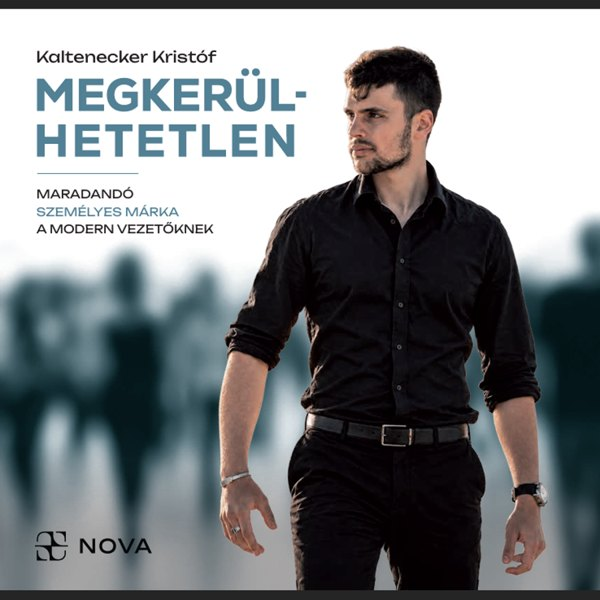
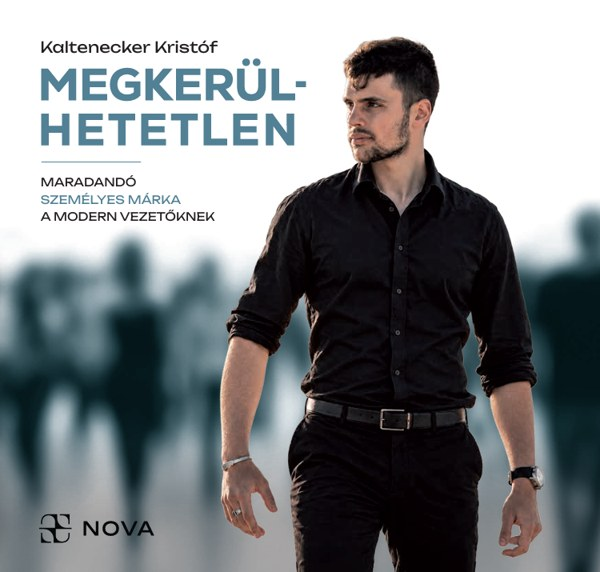
Borító: fekete csíkok levágva, mockup az eredeti arányban

diff --git a/docs/assets/css/style.css b/docs/assets/css/style.css
@@ -163,9 +163,9 @@ footer a{color:var(--muted)}
 .form-slot #kajabi-form .kajabi-form__form-item label{font-size:13px;color:#3b434a}
 
 /* 3D könyv-mockup (CSS, négyzetes keményfedeles) */
-.book3d{--bw:240px;--bt:28px;perspective:1300px;width:calc(var(--bw) + 40px);margin:10px auto 0;padding:14px 0 26px 40px;position:relative}
+.book3d{--bw:240px;--bh:calc(var(--bw) * 0.953);--bt:28px;perspective:1300px;width:calc(var(--bw) + 40px);margin:10px auto 0;padding:14px 0 26px 40px;position:relative}
 .book3d::after{content:"";position:absolute;left:28px;right:-6px;bottom:4px;height:22px;border-radius:50%;background:rgba(20,24,28,.32);filter:blur(10px);z-index:0}
-.book3d-inner{position:relative;z-index:1;width:var(--bw);height:var(--bw);transform-style:preserve-3d;transform:rotateY(26deg) rotateX(4deg);transition:transform .5s ease}
+.book3d-inner{position:relative;z-index:1;width:var(--bw);height:var(--bh);transform-style:preserve-3d;transform:rotateY(26deg) rotateX(4deg);transition:transform .5s ease}
 .book3d:hover .book3d-inner{transform:rotateY(18deg) rotateX(3deg)}
 .b-front,.b-back{position:absolute;inset:0;overflow:hidden;backface-visibility:hidden}
 .b-front{transform:translateZ(calc(var(--bt)/2));border-radius:2px 6px 6px 2px;box-shadow:0 14px 34px rgba(20,24,28,.22)}

diff --git a/docs/gundel-takacs-gabor/index.html b/docs/gundel-takacs-gabor/index.html
@@ -16,7 +16,7 @@
 <link rel="icon" href="../assets/img/favicon.svg" type="image/svg+xml">
 <link rel="preconnect" href="https://fonts.googleapis.com"><link rel="preconnect" href="https://fonts.gstatic.com" crossorigin>
 <link href="https://fonts.googleapis.com/css2?family=Poppins:wght@400;500;600&family=Unbounded:wght@500;600;700;800&display=swap" rel="stylesheet">
-<link rel="stylesheet" href="../assets/css/style.css?v=202610081025">
+<link rel="stylesheet" href="../assets/css/style.css?v=202610081026">
 
 </head>
 <body>
@@ -73,7 +73,7 @@
   <div class="wrap book-grid">
     <div class="book3d" aria-label="Megkerülhetetlen, Kaltenecker Kristóf könyve"><div class="book3d-inner">
       <div class="b-back"></div><div class="b-pages"></div><div class="b-spine"><span>Megkerülhetetlen</span></div>
-      <div class="b-front"><img src="../assets/img/borito-600.jpg" alt="Megkerülhetetlen, Kaltenecker Kristóf könyve" width="240" height="240" loading="lazy"></div>
+      <div class="b-front"><img src="../assets/img/borito-600.jpg" alt="Megkerülhetetlen, Kaltenecker Kristóf könyve" width="240" height="229" loading="lazy"></div>
     </div></div>
     <div>
       <div class="chapter">Storytelling fejezet</div>

diff --git a/docs/karizma/index.html b/docs/karizma/index.html
@@ -16,7 +16,7 @@
 <link rel="icon" href="../assets/img/favicon.svg" type="image/svg+xml">
 <link rel="preconnect" href="https://fonts.googleapis.com"><link rel="preconnect" href="https://fonts.gstatic.com" crossorigin>
 <link href="https://fonts.googleapis.com/css2?family=Poppins:wght@400;500;600&family=Unbounded:wght@500;600;700;800&display=swap" rel="stylesheet">
-<link rel="stylesheet" href="../assets/css/style.css?v=202610081025">
+<link rel="stylesheet" href="../assets/css/style.css?v=202610081026">
 
 </head>
 <body>
@@ -83,7 +83,7 @@
   <div class="wrap book-grid">
     <div class="book3d" aria-label="Megkerülhetetlen, Kaltenecker Kristóf könyve"><div class="book3d-inner">
       <div class="b-back"></div><div class="b-pages"></div><div class="b-spine"><span>Megkerülhetetlen</span></div>
-      <div class="b-front"><img src="../assets/img/borito-600.jpg" alt="Megkerülhetetlen, Kaltenecker Kristóf könyve" width="240" height="240" loading="lazy"></div>
+      <div class="b-front"><img src="../assets/img/borito-600.jpg" alt="Megkerülhetetlen, Kaltenecker Kristóf könyve" width="240" height="229" loading="lazy"></div>
     </div></div>
     <div>
       <div class="chapter">Storytelling fejezet</div>

diff --git a/docs/storycanvas/index.html b/docs/storycanvas/index.html
@@ -16,7 +16,7 @@
 <link rel="icon" href="../assets/img/favicon.svg" type="image/svg+xml">
 <link rel="preconnect" href="https://fonts.googleapis.com"><link rel="preconnect" href="https://fonts.gstatic.com" crossorigin>
 <link href="https://fonts.googleapis.com/css2?family=Poppins:wght@400;500;600&family=Unbounded:wght@500;600;700;800&display=swap" rel="stylesheet">
-<link rel="stylesheet" href="../assets/css/style.css?v=202610081025">
+<link rel="stylesheet" href="../assets/css/style.css?v=202610081026">
 
 </head>
 <body>
@@ -87,7 +87,7 @@
   <div class="wrap book-grid">
     <div class="book3d" aria-label="Megkerülhetetlen, Kaltenecker Kristóf könyve"><div class="book3d-inner">
       <div class="b-back"></div><div class="b-pages"></div><div class="b-spine"><span>Megkerülhetetlen</span></div>
-      <div class="b-front"><img src="../assets/img/borito-600.jpg" alt="Megkerülhetetlen, Kaltenecker Kristóf könyve" width="240" height="240" loading="lazy"></div>
+      <div class="b-front"><img src="../assets/img/borito-600.jpg" alt="Megkerülhetetlen, Kaltenecker Kristóf könyve" width="240" height="229" loading="lazy"></div>
     </div></div>
     <div>
       <div class="chapter">Storytelling fejezet</div>

diff --git a/docs/bese-nora/index.html b/docs/bese-nora/index.html
@@ -16,7 +16,7 @@
 <link rel="icon" href="../assets/img/favicon.svg" type="image/svg+xml">
 <link rel="preconnect" href="https://fonts.googleapis.com"><link rel="preconnect" href="https://fonts.gstatic.com" crossorigin>
 <link href="https://fonts.googleapis.com/css2?family=Poppins:wght@400;500;600&family=Unbounded:wght@500;600;700;800&display=swap" rel="stylesheet">
-<link rel="stylesheet" href="../assets/css/style.css?v=202610081025">
+<link rel="stylesheet" href="../assets/css/style.css?v=202610081026">
 
 </head>
 <body>
@@ -73,7 +73,7 @@
   <div class="wrap book-grid">
     <div class="book3d" aria-label="Megkerülhetetlen, Kaltenecker Kristóf könyve"><div class="book3d-inner">
       <div class="b-back"></div><div class="b-pages"></div><div class="b-spine"><span>Megkerülhetetlen</span></div>
-      <div class="b-front"><img src="../assets/img/borito-600.jpg" alt="Megkerülhetetlen, Kaltenecker Kristóf könyve" width="240" height="240" loading="lazy"></div>
+      <div class="b-front"><img src="../assets/img/borito-600.jpg" alt="Megkerülhetetlen, Kaltenecker Kristóf könyve" width="240" height="229" loading="lazy"></div>
     </div></div>
     <div>
       <div class="chapter">Rendszerek fejezet</div>

diff --git a/docs/bolya-imre/index.html b/docs/bolya-imre/index.html
@@ -16,7 +16,7 @@
 <link rel="icon" href="../assets/img/favicon.svg" type="image/svg+xml">
 <link rel="preconnect" href="https://fonts.googleapis.com"><link rel="preconnect" href="https://fonts.gstatic.com" crossorigin>
 <link href="https://fonts.googleapis.com/css2?family=Poppins:wght@400;500;600&family=Unbounded:wght@500;600;700;800&display=swap" rel="stylesheet">
-<link rel="stylesheet" href="../assets/css/style.css?v=202610081025">
+<link rel="stylesheet" href="../assets/css/style.css?v=202610081026">
 
 </head>
 <body>
@@ -73,7 +73,7 @@
   <div class="wrap book-grid">
     <div class="book3d" aria-label="Megkerülhetetlen, Kaltenecker Kristóf könyve"><div class="book3d-inner">
       <div class="b-back"></div><div class="b-pages"></div><div class="b-spine"><span>Megkerülhetetlen</span></div>
-      <div class="b-front"><img src="../assets/img/borito-600.jpg" alt="Megkerülhetetlen, Kaltenecker Kristóf könyve" width="240" height="240" loading="lazy"></div>
+      <div class="b-front"><img src="../assets/img/borito-600.jpg" alt="Megkerülhetetlen, Kaltenecker Kristóf könyve" width="240" height="229" loading="lazy"></div>
     </div></div>
     <div>
       <div class="chapter">Rendszerek fejezet</div>

diff --git a/docs/branding-roadmap/index.html b/docs/branding-roadmap/index.html
@@ -16,7 +16,7 @@
 <link rel="icon" href="../assets/img/favicon.svg" type="image/svg+xml">
 <link rel="preconnect" href="https://fonts.googleapis.com"><link rel="preconnect" href="https://fonts.gstatic.com" crossorigin>
 <link href="https://fonts.googleapis.com/css2?family=Poppins:wght@400;500;600&family=Unbounded:wght@500;600;700;800&display=swap" rel="stylesheet">
-<link rel="stylesheet" href="../assets/css/style.css?v=202610081025">
+<link rel="stylesheet" href="../assets/css/style.css?v=202610081026">
 
 </head>
 <body>
@@ -69,7 +69,7 @@
   <div class="wrap book-grid">
     <div class="book3d" aria-label="Megkerülhetetlen, Kaltenecker Kristóf könyve"><div class="book3d-inner">
       <div class="b-back"></div><div class="b-pages"></div><div class="b-spine"><span>Megkerülhetetlen</span></div>
-      <div class="b-front"><img src="../assets/img/borito-600.jpg" alt="Megkerülhetetlen, Kaltenecker Kristóf könyve" width="240" height="240" loading="lazy"></div>
+      <div class="b-front"><img src="../assets/img/borito-600.jpg" alt="Megkerülhetetlen, Kaltenecker Kristóf könyve" width="240" height="229" loading="lazy"></div>
     </div></div>
     <div>
       <div class="chapter">Stratégia fejezet</div>

diff --git a/docs/godor-zola/index.html b/docs/godor-zola/index.html
@@ -16,7 +16,7 @@
 <link rel="icon" href="../assets/img/favicon.svg" type="image/svg+xml">
 <link rel="preconnect" href="https://fonts.googleapis.com"><link rel="preconnect" href="https://fonts.gstatic.com" crossorigin>
 <link href="https://fonts.googleapis.com/css2?family=Poppins:wght@400;500;600&family=Unbounded:wght@500;600;700;800&display=swap" rel="stylesheet">
-<link rel="stylesheet" href="../assets/css/style.css?v=202610081025">
+<link rel="stylesheet" href="../assets/css/style.css?v=202610081026">
 
 </head>
 <body>
@@ -73,7 +73,7 @@
   <div class="wrap book-grid">
     <div class="book3d" aria-label="Megkerülhetetlen, Kaltenecker Kristóf könyve"><div class="book3d-inner">
       <div class="b-back"></div><div class="b-pages"></div><div class="b-spine"><span>Megkerülhetetlen</span></div>
-      <div class="b-front"><img src="../assets/img/borito-600.jpg" alt="Megkerülhetetlen, Kaltenecker Kristóf könyve" width="240" height="240" loading="lazy"></div>
+      <div class="b-front"><img src="../assets/img/borito-600.jpg" alt="Megkerülhetetlen, Kaltenecker Kristóf könyve" width="240" height="229" loading="lazy"></div>
     </div></div>
     <div>
       <div class="chapter">Rendszerek fejezet</div>

diff --git a/docs/hormonmentes/index.html b/docs/hormonmentes/index.html
@@ -16,7 +16,7 @@
 <link rel="icon" href="../assets/img/favicon.svg" type="image/svg+xml">
 <link rel="preconnect" href="https://fonts.googleapis.com"><link rel="preconnect" href="https://fonts.gstatic.com" crossorigin>
 <link href="https://fonts.googleapis.com/css2?family=Poppins:wght@400;500;600&family=Unbounded:wght@500;600;700;800&display=swap" rel="stylesheet">
-<link rel="stylesheet" href="../assets/css/style.css?v=202610081025">
+<link rel="stylesheet" href="../assets/css/style.css?v=202610081026">
 
 </head>
 <body>
@@ -73,7 +73,7 @@
   <div class="wrap book-grid">
     <div class="book3d" aria-label="Megkerülhetetlen, Kaltenecker Kristóf könyve"><div class="book3d-inner">
       <div class="b-back"></div><div class="b-pages"></div><div class="b-spine"><span>Megkerülhetetlen</span></div>
-      <div class="b-front"><img src="../assets/img/borito-600.jpg" alt="Megkerülhetetlen, Kaltenecker Kristóf könyve" width="240" height="240" loading="lazy"></div>
+      <div class="b-front"><img src="../assets/img/borito-600.jpg" alt="Megkerülhetetlen, Kaltenecker Kristóf könyve" width="240" height="229" loading="lazy"></div>
     </div></div>
     <div>
       <div class="chapter">Stratégia fejezet</div>

diff --git a/docs/idokapszula/index.html b/docs/idokapszula/index.html
@@ -16,7 +16,7 @@
 <link rel="icon" href="../assets/img/favicon.svg" type="image/svg+xml">
 <link rel="preconnect" href="https://fonts.googleapis.com"><link rel="preconnect" href="https://fonts.gstatic.com" crossorigin>
 <link href="https://fonts.googleapis.com/css2?family=Poppins:wght@400;500;600&family=Unbounded:wght@500;600;700;800&display=swap" rel="stylesheet">
-<link rel="stylesheet" href="../assets/css/style.css?v=202610081025">
+<link rel="stylesheet" href="../assets/css/style.css?v=202610081026">
 
 </head>
 <body>
@@ -62,7 +62,7 @@
   <div class="wrap book-grid">
     <div class="book3d" aria-label="Megkerülhetetlen, Kaltenecker Kristóf könyve"><div class="book3d-inner">
       <div class="b-back"></div><div class="b-pages"></div><div class="b-spine"><span>Megkerülhetetlen</span></div>
-      <div class="b-front"><img src="../assets/img/borito-600.jpg" alt="Megkerülhetetlen, Kaltenecker Kristóf könyve" width="240" height="240" loading="lazy"></div>
+      <div class="b-front"><img src="../assets/img/borito-600.jpg" alt="Megkerülhetetlen, Kaltenecker Kristóf könyve" width="240" height="229" loading="lazy"></div>
     </div></div>
     <div>
       <div class="chapter">Rendszerek fejezet</div>

diff --git a/docs/kamera-elotti-magabiztossag/index.html b/docs/kamera-elotti-magabiztossag/index.html
@@ -16,7 +16,7 @@
 <link rel="icon" href="../assets/img/favicon.svg" type="image/svg+xml">
 <link rel="preconnect" href="https://fonts.googleapis.com"><link rel="preconnect" href="https://fonts.gstatic.com" crossorigin>
 <link href="https://fonts.googleapis.com/css2?family=Poppins:wght@400;500;600&family=Unbounded:wght@500;600;700;800&display=swap" rel="stylesheet">
-<link rel="stylesheet" href="../assets/css/style.css?v=202610081025">
+<link rel="stylesheet" href="../assets/css/style.css?v=202610081026">
 
 </head>
 <body>
@@ -71,7 +71,7 @@
   <div class="wrap book-grid">
     <div class="book3d" aria-label="Megkerülhetetlen, Kaltenecker Kristóf könyve"><div class="book3d-inner">
       <div class="b-back"></div><div class="b-pages"></div><div class="b-spine"><span>Megkerülhetetlen</span></div>
-      <div class="b-front"><img src="../assets/img/borito-600.jpg" alt="Megkerülhetetlen, Kaltenecker Kristóf könyve" width="240" height="240" loading="lazy"></div>
+      <div class="b-front"><img src="../assets/img/borito-600.jpg" alt="Megkerülhetetlen, Kaltenecker Kristóf könyve" width="240" height="229" loading="lazy"></div>
     </div></div>
     <div>
       <div class="chapter">Stratégia fejezet</div>

diff --git a/docs/kocsis-attila/index.html b/docs/kocsis-attila/index.html
@@ -16,7 +16,7 @@
 <link rel="icon" href="../assets/img/favicon.svg" type="image/svg+xml">
 <link rel="preconnect" href="https://fonts.googleapis.com"><link rel="preconnect" href="https://fonts.gstatic.com" crossorigin>
 <link href="https://fonts.googleapis.com/css2?family=Poppins:wght@400;500;600&family=Unbounded:wght@500;600;700;800&display=swap" rel="stylesheet">
-<link rel="stylesheet" href="../assets/css/style.css?v=202610081025">
+<link rel="stylesheet" href="../assets/css/style.css?v=202610081026">
 
 </head>
 <body>
@@ -73,7 +73,7 @@
   <div class="wrap book-grid">
     <div class="book3d" aria-label="Megkerülhetetlen, Kaltenecker Kristóf könyve"><div class="book3d-inner">
       <div class="b-back"></div><div class="b-pages"></div><div class="b-spine"><span>Megkerülhetetlen</span></div>
-      <div class="b-front"><img src="../assets/img/borito-600.jpg" alt="Megkerülhetetlen, Kaltenecker Kristóf könyve" width="240" height="240" loading="lazy"></div>
+      <div class="b-front"><img src="../assets/img/borito-600.jpg" alt="Megkerülhetetlen, Kaltenecker Kristóf könyve" width="240" height="229" loading="lazy"></div>
     </div></div>
     <div>
       <div class="chapter">Rendszerek fejezet</div>
